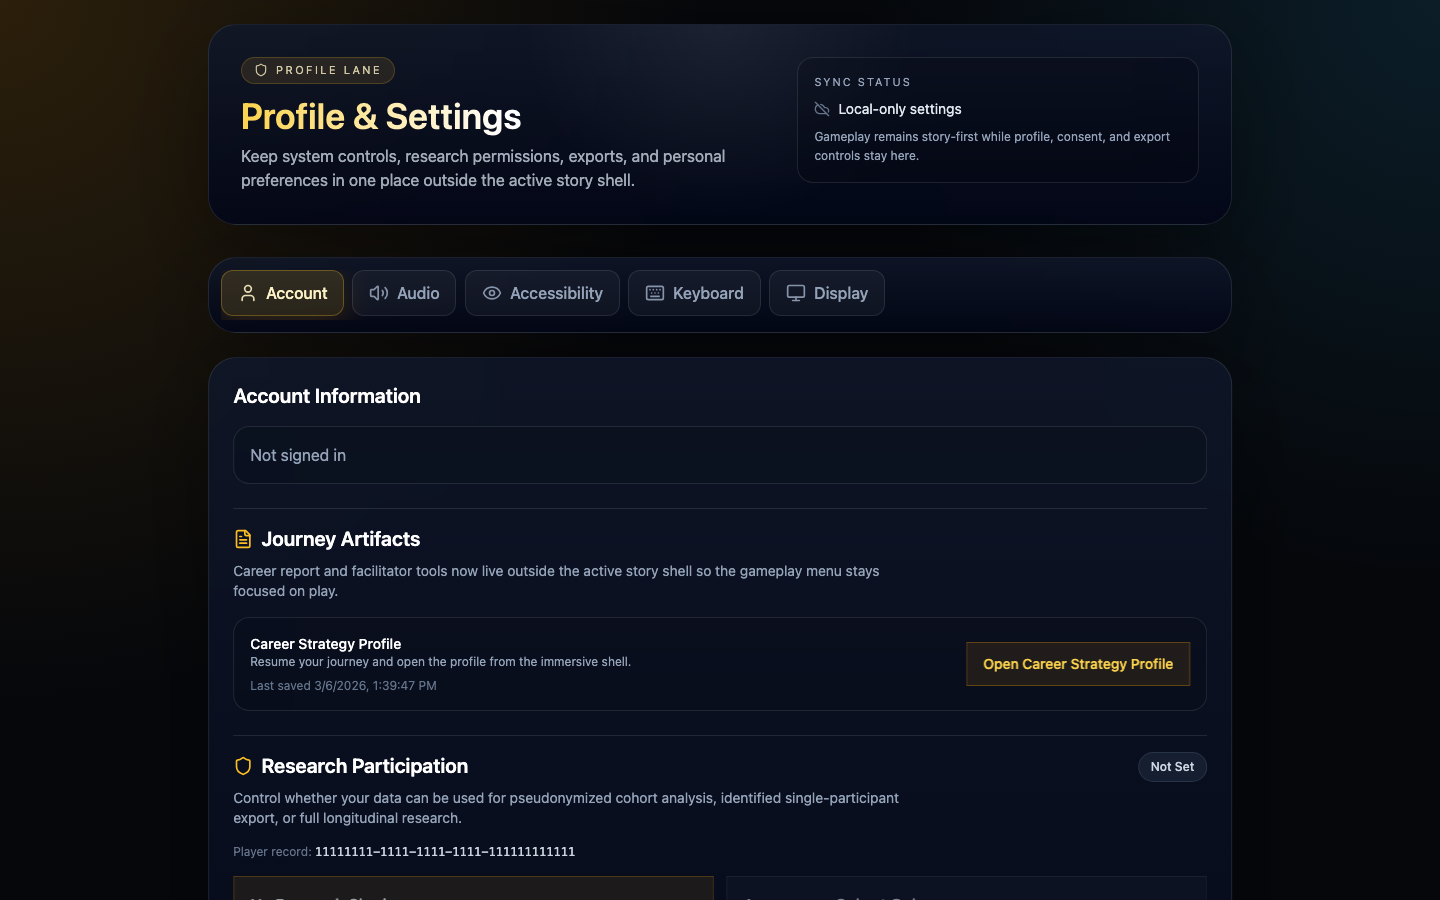
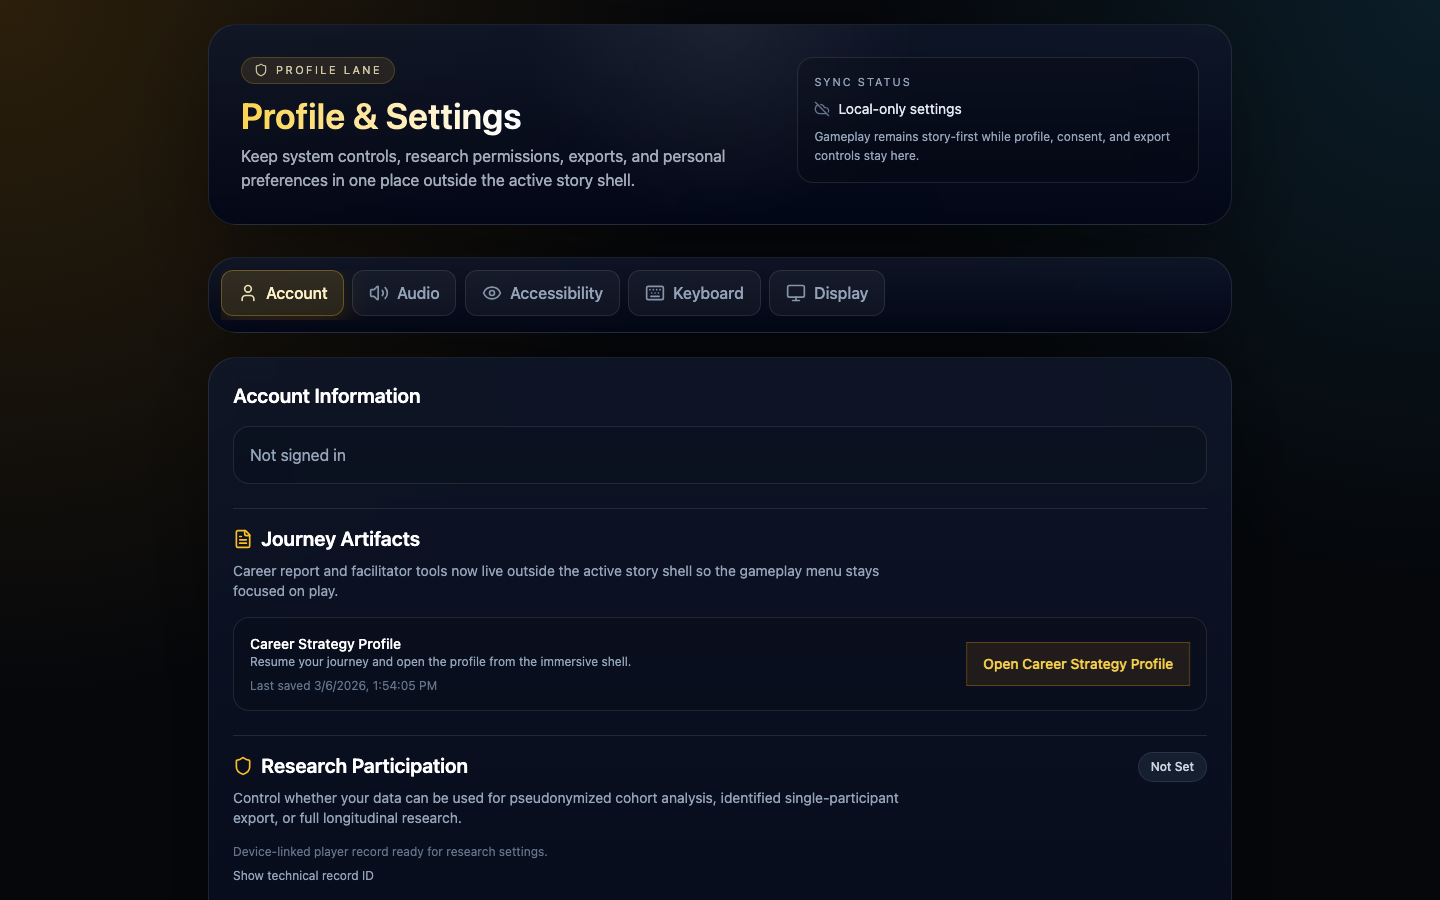
Refresh final production visual review package

diff --git a/tests/e2e/user-flows/visual-review-capture.spec.ts b/tests/e2e/user-flows/visual-review-capture.spec.ts
@@ -43,6 +43,19 @@ test.describe('Visual Review Capture', () => {
     const isIPhone14 = project === 'visual-mobile-iphone-14'
     const isIPhoneSE = project === 'visual-mobile-iphone-se'
 
+    await test.step('Review target preflight', async () => {
+      const sessionResponse = await page.request.post('/api/user/session', {
+        data: { user_id: PROFILE_PLAYER_ID },
+      })
+      expect(sessionResponse.status()).toBe(200)
+
+      const payload = await sessionResponse.json()
+      expect(payload).toMatchObject({
+        success: true,
+        user_id: PROFILE_PLAYER_ID,
+      })
+    })
+
     await test.step('Landing', async () => {
       await page.goto('/', { waitUntil: 'domcontentloaded' })
       await expect(page.getByRole('button', { name: /begin your journey|enter station/i })).toBeVisible({

diff --git a/analysis/reviewer-assets/panels/frontend-blindspot-audit-2026-03-06-post-production-followup.md b/analysis/reviewer-assets/panels/frontend-blindspot-audit-2026-03-06-post-production-followup.md
@@ -1,0 +1,61 @@
+# Frontend Blindspot Audit (Post-Production Follow-up, March 6, 2026)
+
+Scope:
+- Production alias: `https://lux-story.vercel.app`
+- Exact deployment URL validated in this pass: `https://lux-story-jjk0q1mbv-link-dap.vercel.app`
+- Runtime SHA under review: `ede228e`
+- Evidence/package head: `ede228e` with refreshed screenshots
+
+Evidence grading:
+- `E0`: read-only inference
+- `E1`: reproduced with explicit command / screenshot evidence
+- `E2`: backed by passing test command
+
+## Critical
+
+No critical findings.
+
+## High
+
+No high findings.
+
+## Medium
+
+No medium findings.
+
+## Low
+
+No low findings.
+
+## Blindspots and Optimization Opportunities
+
+- `E2`: the review-target guard is now enforced in two places:
+  - `BASE_URL='https://lux-story.vercel.app' npm run verify:review-target`
+  - `tests/e2e/user-flows/visual-review-capture.spec.ts` now fails before screenshot capture if `/api/user/session` cannot mint a signed cookie.
+- `E2`: session-failure cooldown behavior is now covered by `tests/lib/user-api-session.test.ts`.
+- Remaining non-blocking reality: a manually chosen, misconfigured preview deployment can still exist, but it is now explicitly called out in the prompt/runbook and rejected by the guarded capture flow.
+
+## Plan Fidelity / Dropped Scope Check
+
+- Production session bootstrap is healthy.
+- The iPhone SE bottom-sheet containment issue remains resolved.
+- The profile surface no longer exposes the raw player UUID by default.
+- The mobile simulation case-file heading no longer truncates in the refreshed evidence pack.
+- The Gemini handoff now points at the correct production alias and exact deployment URL.
+
+## Top 3 Impact Fixes Landed
+
+1. Added review-target preflight (`verify:review-target`) and enforced it in the screenshot capture lane.
+2. Hid the raw player UUID behind an optional technical disclosure on the profile surface.
+3. Relaxed mobile simulation case-file layout so authored titles wrap instead of truncating.
+
+## Commands / Checks Used
+
+- `npm run type-check`
+- `npm run test:run -- tests/lib/user-api-session.test.ts tests/components/simulation-renderer-data-analysis.test.tsx tests/components/simulation-renderer-timeout.test.tsx`
+- `PLAYWRIGHT_CONSTRAINED=true npm run test:e2e -- --project=mobile-iphone-14 --workers=1 tests/e2e/mobile/choice-bottom-sheet.spec.ts`
+- `PLAYWRIGHT_CONSTRAINED=true npm run test:e2e -- --project=mobile-iphone-se --workers=1 tests/e2e/mobile/choice-bottom-sheet.spec.ts`
+- `npm run build`
+- `BASE_URL='https://lux-story.vercel.app' npm run verify:review-target`
+- `BASE_URL='https://lux-story.vercel.app' node scripts/ci/release-smoke.mjs`
+- `npm run test:e2e -- --config playwright.visual-review.config.ts tests/e2e/user-flows/visual-review-capture.spec.ts`

diff --git a/analysis/reviewer-assets/panels/evidence/visual-review-2026-03-06/README.md b/analysis/reviewer-assets/panels/evidence/visual-review-2026-03-06/README.md
@@ -2,8 +2,8 @@
 
 ## Scope
 - Production alias: `https://lux-story.vercel.app`
-- Exact deployment URL: `https://lux-story-k8fe7qa72-link-dap.vercel.app`
-- Candidate SHA under review: `8e3bd04`
+- Exact deployment URL: `https://lux-story-jjk0q1mbv-link-dap.vercel.app`
+- Candidate SHA under review: `ede228e`
 - Prompt artifact: `analysis/reviewer-assets/panels/gemini-antigravity-visual-review-2026-03-06.md`
 
 ## What Is Included
@@ -68,3 +68,4 @@ VISUAL_REVIEW_BASE_URL='https://lux-story.vercel.app' npm run test:e2e -- --conf
 - The current repo Gemini runtime is text-oriented; it does not itself prove browser/visual interaction by Gemini Antigravity.
 - Use the prompt artifact plus this screenshot pack together for the external review.
 - Do not use preview deployment `https://lux-story-kuqxzvegj-link-dap.vercel.app` for review; that environment is missing `USER_API_SESSION_SECRET` and produces false session failures.
+- The capture spec now performs the same session-bootstrap preflight itself before taking screenshots.

diff --git a/analysis/reviewer-assets/panels/gemini-antigravity-visual-review-2026-03-06.md b/analysis/reviewer-assets/panels/gemini-antigravity-visual-review-2026-03-06.md
@@ -2,9 +2,9 @@
 
 ## Target
 - Production alias: `https://lux-story.vercel.app`
-- Exact deployment URL: `https://lux-story-k8fe7qa72-link-dap.vercel.app`
-- Exact candidate SHA: `8e3bd04`
-- Context: follow-up visual-QA candidate after simulation-copy, settings-wrap, return-hook, mobile choice-sheet, and session-fallback fixes
+- Exact deployment URL: `https://lux-story-jjk0q1mbv-link-dap.vercel.app`
+- Exact candidate SHA: `ede228e`
+- Context: follow-up visual-QA candidate after simulation-copy, settings-wrap, return-hook, mobile choice-sheet, session-fallback, review-target preflight, and final profile/sim polish fixes
 - Ignore stale preview target `https://lux-story-kuqxzvegj-link-dap.vercel.app`; that preview environment is missing `USER_API_SESSION_SECRET` and is not a valid review surface
 
 ## Review Intent
